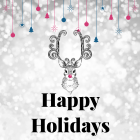
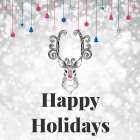
Minor fixes to the reindeer design.

Changed region(s): [[0.2286, 0.8286, 0.8, 0.9714], [0.2857, 0.6571, 0.7143, 0.8]]

diff --git a/static/previewTemplates.js b/static/previewTemplates.js
@@ -63,7 +63,7 @@ function getCardDomTemplate(title) {
                     left:5%; 
                     right:5%; 
                     display: block; 
-                    color:white;
+                    color: #313131;
                     text-align: center; 
                     font-family: 'Playfair Display Black', serif;
                     margin: 0px;">We accomplished alot this year and we'll accomplish even more next year!</p> 
@@ -92,12 +92,12 @@ function getCardDomTemplate(title) {
 
             <p id="signature" class="autoFIT" contentEditable="" spellcheck="false" 
             style="position:absolute; 
-            top: 60%;
+            top: 62%;
             bottom: 5%;
             right: 5%;
             left: 5%;
             display: block; 
-            color:black; 
+            color:#313131; 
             font-family: 'Playfair Display Black', serif;
             margin: 0px; 
             text-align: center;">Happy Holidays</p>
